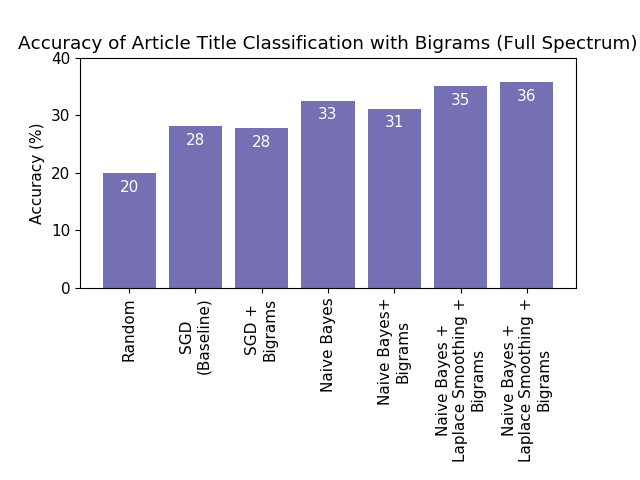
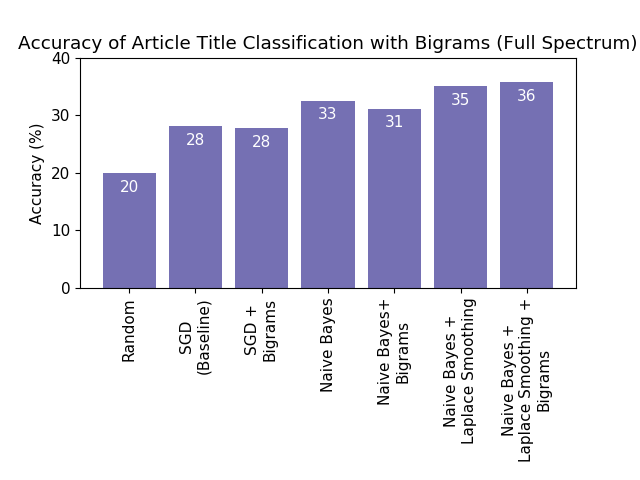
saving

Changed region(s): [[0.6562, 0.625, 0.7812, 0.9688]]

diff --git a/bias/news_bias_baseline.py b/bias/news_bias_baseline.py
@@ -1,6 +1,7 @@
 import csv
 import json
 import itertools
+import operator
 from sklearn import linear_model
 from sklearn.feature_extraction import DictVectorizer
 from nltk.stem import PorterStemmer
@@ -28,6 +29,7 @@ GUESS_BIAS_OF_PUBLISHER = False
 LAPLACE_SMOOTHING = False
 ALPHA=2
 stops = set(stopwords.words('english'))
+dv = DictVectorizer(sparse=False)
 
 def bagOfWordsExtractor(text):
     return list(text.split())
@@ -97,6 +99,7 @@ def loadData():
     return X_raw, Y, publisher_to_title_map, publisher_to_score_map
 
 def buildFeatureVectors(X_raw):
+    global dv
     X_map = []
     featureExtractor = None
     if NGRAMS:
@@ -111,7 +114,7 @@ def buildFeatureVectors(X_raw):
             featureMap[feature] = 1 
         X_map.append(featureMap)
         
-    dv = DictVectorizer(sparse=False)
+    #dv = DictVectorizer(sparse=False)
     vectors = dv.fit_transform(X_map)
     return vectors
         
@@ -155,7 +158,17 @@ def evaluate(X_train, Y_train, X_test, Y_test, out):
         out.write("test: %f\n" % testScore)
         print("Scored testing data")
         predictions = classifier.predict(X_test)
-        
+
+        print(classifier.feature_log_prob_)
+        weight_dict0 = dv.inverse_transform(classifier.feature_log_prob_)[0]
+        weight_dict1 = dv.inverse_transform(classifier.feature_log_prob_)[1]
+        topWeights = dict(sorted(weight_dict0.items(), key=operator.itemgetter(1), reverse=True)[:20])
+        bottomWeights = dict(sorted(weight_dict1.items(), key=operator.itemgetter(1), reverse=True)[:20])
+        print(topWeights)
+        print(bottomWeights)
+
+        print(classifier.coef_[0])
+
         if GUESS_BIAS or GUESS_BIAS_OF_PUBLISHER:
             buckets_correct = [0, 0, 0, 0, 0]
             buckets_guessed = [0, 0, 0, 0, 0]

diff --git a/bias/run_eval.py b/bias/run_eval.py
@@ -48,16 +48,16 @@ def runExperiments(modelParams, includeRLOnly, model, predict):
     if includeRLOnly:
         print("Run with ngrams, RL only for %s predicting %s\n" % (model, predict))
         modelParams["LeftRightOnly"] = True
-        bias.runExperiment(modelParams, fileName(model, True, True, predict))
+#        bias.runExperiment(modelParams, fileName(model, True, True, predict))
 
 logisticRegressionParams = params.copy()
 #runAll(logisticRegressionParams, "LogisticRegression")
 
 naiveBayesParams = params.copy()
 naiveBayesParams["NaiveBayesBer"] = True
-runAll(naiveBayesParams, "NaiveBayes")
+#runAll(naiveBayesParams, "NaiveBayes")
 
 naiveBayesLaplaceParams = params.copy()
 naiveBayesLaplaceParams["NaiveBayesBer"] = True
 naiveBayesLaplaceParams["LaplaceSmoothing"] = True
-runAll(naiveBayesLaplaceParams, "LaplaceNaiveBayes")
+runAll(naiveBayesLaplaceParams, "LaplaceNaiveBayes_TEST")

diff --git a/bias/plot_data.py b/bias/plot_data.py
@@ -22,7 +22,7 @@ def fileName(model, isLR, nGrams, predict):
 models = ["LogisticRegression", "NaiveBayes", "LaplaceNaiveBayes"]
 modelNames = ["Random", "SGD\n(Baseline)", "Naive Bayes", "Naive Bayes +\nLaplace Smoothing"]
 modelNamesOracle = ["Random", "SGD\n(Baseline)", "Naive Bayes", "Naive Bayes +\nLaplace Smoothing", "Oracle"]
-modelNamesBigrams = ["Random", "SGD\n(Baseline)", "SGD +\nBigrams", "Naive Bayes", "Naive Bayes+\nBigrams", "Naive Bayes +\nLaplace Smoothing +\nBigrams", "Naive Bayes +\nLaplace Smoothing +\nBigrams"]
+modelNamesBigrams = ["Random", "SGD\n(Baseline)", "SGD +\nBigrams", "Naive Bayes", "Naive Bayes+\nBigrams", "Naive Bayes +\nLaplace Smoothing", "Naive Bayes +\nLaplace Smoothing +\nBigrams"]
 modelNamesPublisher = ["Random", "SGD", "Naive Bayes", "Naive Bayes +\nLaplace Smoothing"]
 
 def extractDataFromFiles(isLr, nGrams, predict):
